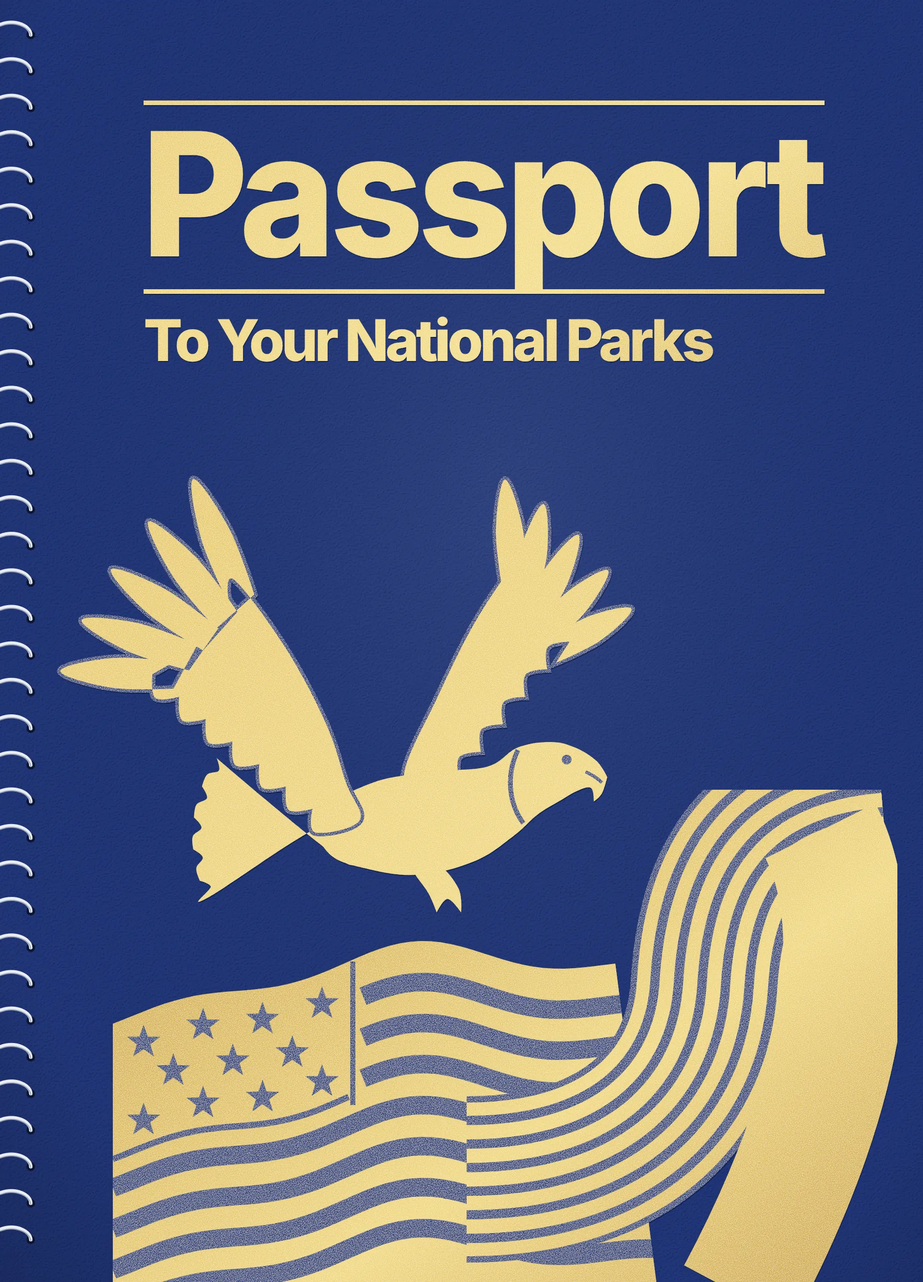
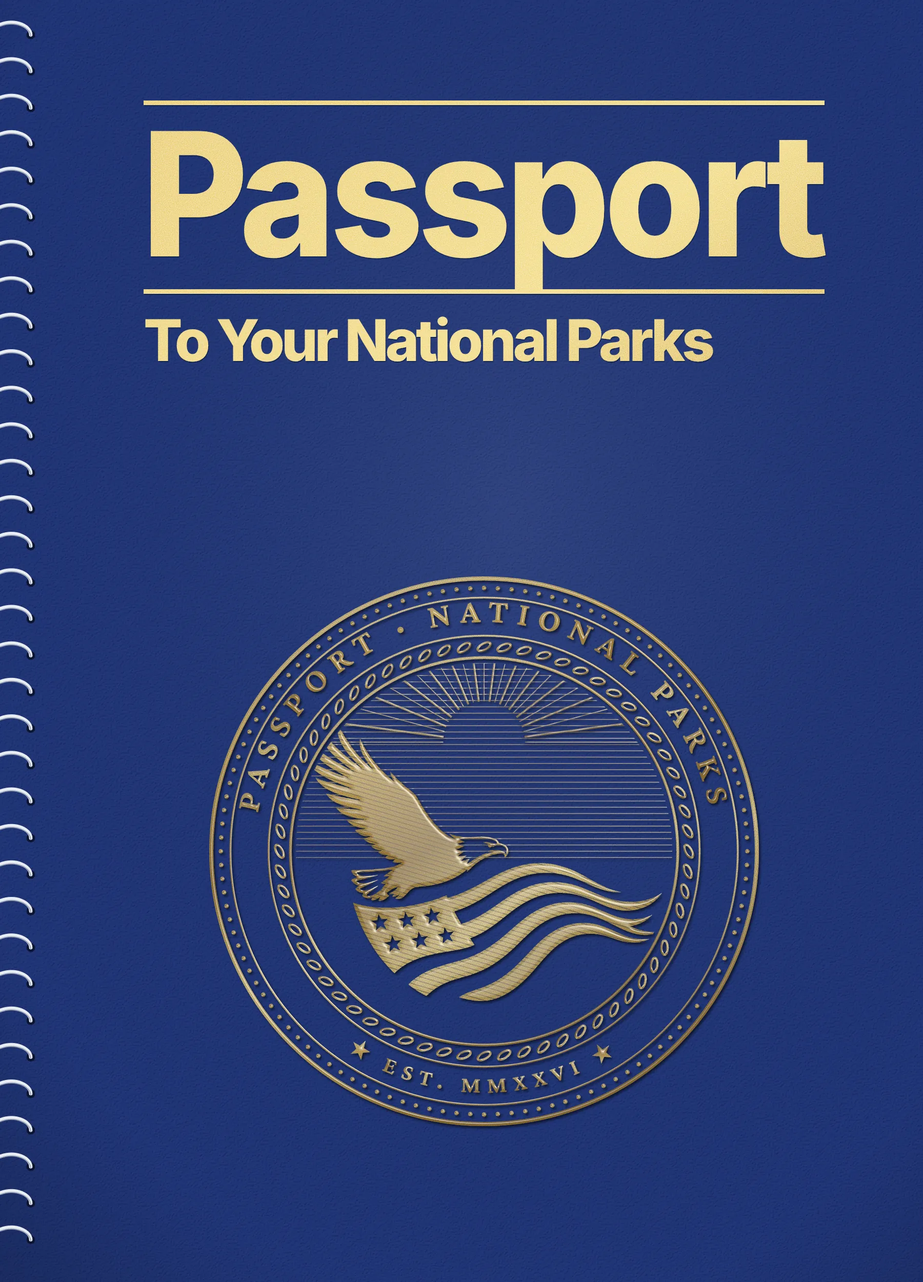
Update passport 2026-10-25 12:18

diff --git a/src/stamps/emblems.py b/src/stamps/emblems.py
@@ -162,3 +162,21 @@ def emblem_c(cx, cy, R=170):
             f'<textPath href="#ringC2" startOffset="50%" text-anchor="middle">★ EST. MMXXVI ★</textPath></text>'
             f'<circle r="{r_in+4}" fill="none" stroke-width="1.4"/>' + rope(r_in - 4, 64, 5.5, 1.6) +
             f'<circle r="{r_in-12}" fill="none" stroke-width="2"/>' + scene(r_in - 14, 'C') + '</g>')
+
+MASK = 'file://' + __import__('os').path.join(__import__('os').path.dirname(__import__('os').path.abspath(__file__)), 'eagleflag_mask.png')
+
+def scene_eagle(R, uid):
+    """Eagle soaring over a waving flag (traced from an original generated silhouette), gold with engraved line shading."""
+    sz = R * 1.86; x0 = -sz / 2; y0 = -sz / 2 + R * .06
+    hat = ''.join(f'<line x1="{-R*1.5:.0f}" y1="{k:.1f}" x2="{R*1.5:.0f}" y2="{k + R*.9:.1f}"/>' for k in [(-2*R) + i*3.4 for i in range(int(4*R/3.4))])
+    return (foil_u(uid, R) + f'<g fill="url(#fu{uid})" stroke="url(#fu{uid})">' + sky(R - 2, 10, uid, 4.6) + '</g>'
+            + f'<mask id="m{uid}" maskUnits="userSpaceOnUse" x="{-R}" y="{-R}" width="{2*R}" height="{2*R}">'
+              f'<image href="{MASK}" x="{x0:.1f}" y="{y0:.1f}" width="{sz:.1f}" height="{sz:.1f}"/></mask>'
+            + f'<clipPath id="sce{uid}"><circle r="{R-2}"/></clipPath><g clip-path="url(#sce{uid})">'
+            # navy knock-out halo so the figure separates from the sky rays
+            + f'<g mask="url(#m{uid})"><rect x="{-R}" y="{-R}" width="{2*R}" height="{2*R}" fill="url(#fu{uid})"/>'
+              f'<g stroke="{NAVY}" stroke-width=".55" opacity=".45">{hat}</g></g></g>')
+
+def emblem_c2(cx, cy, R=170):
+    r_in = R - 46
+    return emblem_c(cx, cy, R).replace(scene(r_in - 14, 'C'), scene_eagle(r_in - 14, 'E'))

diff --git a/src/stamps/cover2.py b/src/stamps/cover2.py
@@ -53,9 +53,8 @@ def star(cx, cy, r):
 EAGLE = 'M100,92 L70,50 L50,20 L40,-4 L28,-2 L34,6 L18,6 L26,14 L8,16 L20,24 L0,30 L16,36 L4,46 L20,50 L22,62 L30,72 L38,80 L48,92 L58,98 L66,110 L76,114 L84,122 L86,140 L80,152 L70,164 L62,176 L74,174 L70,184 L80,186 L88,176 L100,166 L116,176 L140,192 L166,210 L176,222 L178,212 L192,220 L188,208 L204,212 L196,202 L210,200 L198,192 L206,186 L180,172 L150,150 L118,128 L122,124 L130,118 L140,114 L150,114 L156,110 L146,104 L136,100 L124,98 L112,96 Z'
 
 def art():
-    import eagleflag as ef
-    return ('<g fill="url(#gold)" filter="url(#foilgrain)">' + ef.flag() + ef.banner() + '</g>'
-            + '<g fill="url(#gold)" filter="url(#foilgrain)">' + ef.eagle(80, 470, 1.32) + '</g>')
+    import passport, emblems
+    return f'<defs>{passport.cover_texture(21)}</defs>' + f'<g transform="translate(472,830) scale(1.33)">' + emblems.emblem_c2(0, 0, 200) + '</g>'
 
 def title():
     return (f'<g fill="url(#gold)" filter="url(#foilgrain)">'
